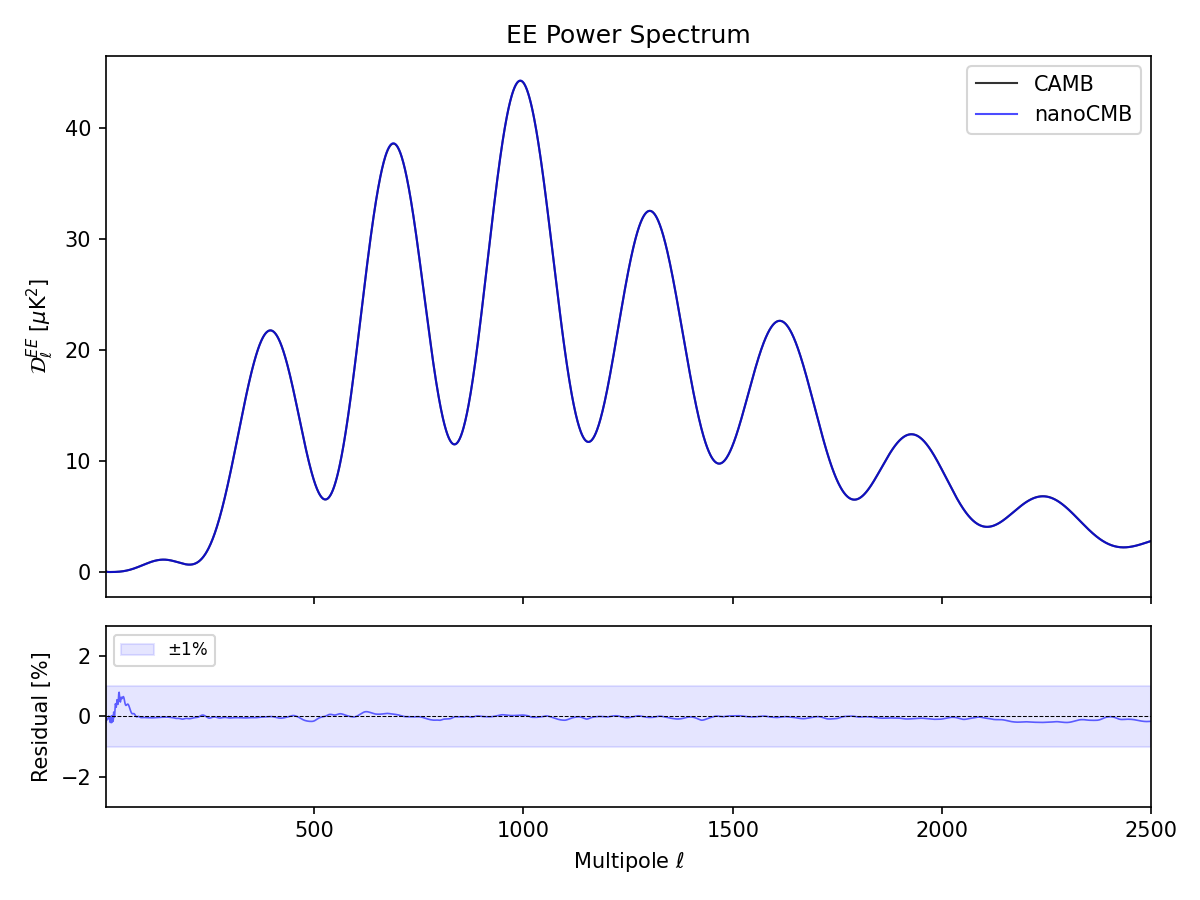
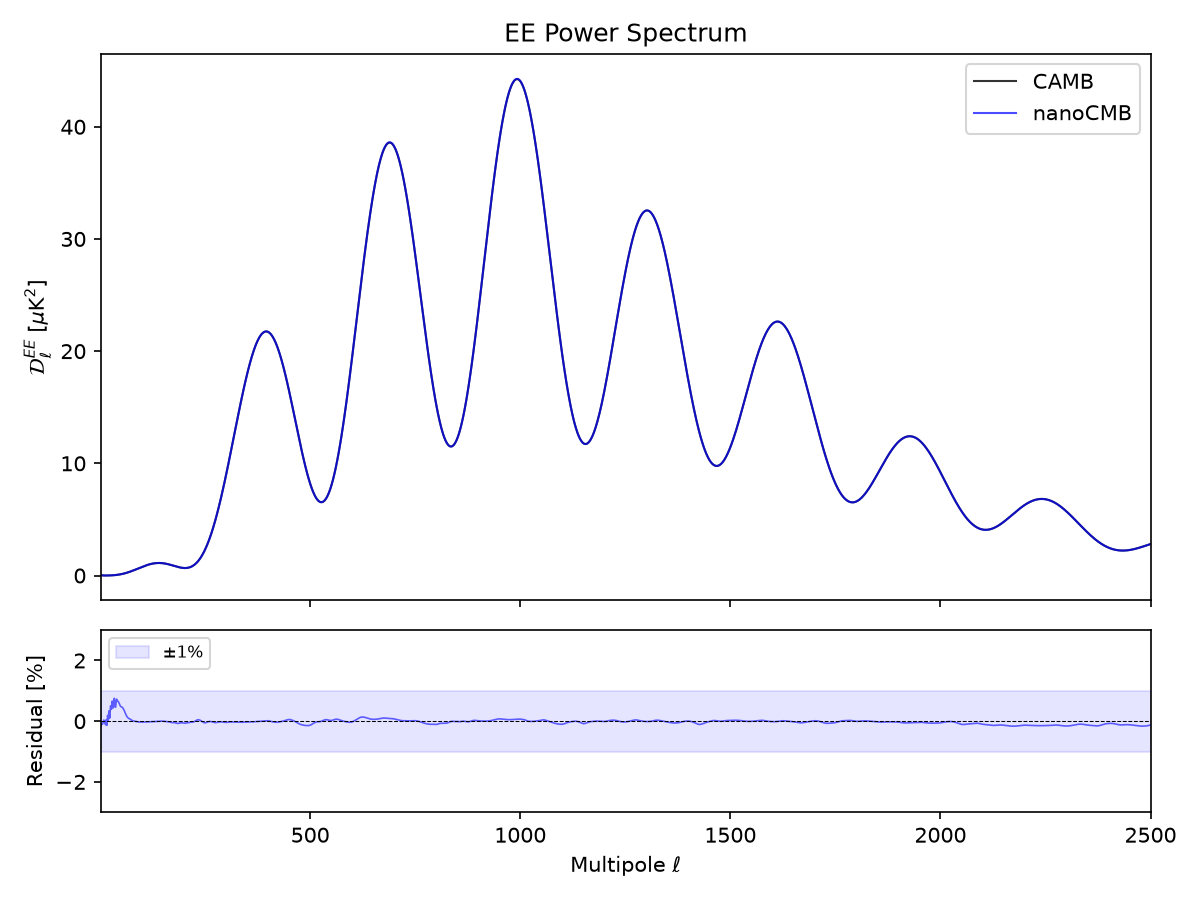
Match RECFAST to CAMB 2.0.4
- Hswitch double-Gaussian parameters: CAMB's refit instead of the rounded
  Recfast 1.5 values
- HeI singlet H-continuum opacity exponent: CAMB's RECFAST_fudge_He
  (0.8472367977) instead of 0.86
- HeI rate correction: CAMB's fitted factor on the helium rate, after the
  triplet term, for 1500 < z < 3000 while 1e-8 <= x_He <= 0.98

Checked against CAMB 2.0.4's recfast.f90. x_e now matches CAMB's
recombination-only history to 2-4e-5 for z = 800-4000 (was up to 3.3e-3).
Unlensed spectra vs CAMB 2.0.4: RMS residuals over l = 2-2500 drop from
0.105/0.110/0.055% to 0.089/0.095/0.047% (TT/EE/TE). README accuracy table
and figures regenerated.

diff --git a/nanocmb.py b/nanocmb.py
@@ -206,13 +206,20 @@ L_He2St_ion = 3.8454693845e6                      # HeI 2³S₁ ionisation conti
 sigma_He_2Ps = 1.436289e-22                       # HeI singlet photoionisation σ (m²)
 sigma_He_2Pt = 1.484872e-22                       # HeI triplet photoionisation σ (m²)
 
-# Fudge factor (CAMB default with Hswitch Gaussians: 1.125)
-RECFAST_fudge = 1.125
+# Fudge factors and corrections, as in CAMB 2.0.4's recfast.f90
+RECFAST_fudge = 1.125                # H fudge (default with Hswitch Gaussians)
+RECFAST_fudge_He = 0.8472367977      # exponent of the HeI singlet H-continuum opacity fit
 
-# Hswitch double-Gaussian K correction parameters
-AGauss1, AGauss2 = -0.14, 0.079
-zGauss1, zGauss2 = 7.28, 6.73
-wGauss1, wGauss2 = 0.18, 0.33
+# Hswitch double-Gaussian K correction parameters (CAMB's refit)
+AGauss1, AGauss2 = -0.1395272483, 0.0729891952
+zGauss1, zGauss2 = 7.2813061282, 6.7667038679
+wGauss1, wGauss2 = 0.1638966410, 0.2785834127
+
+# HeI rate correction: f_He multiplied by 1 + (a0 + a1 u + a2 u²)/(1 + d2 u² + d4 u⁴),
+# u = (z - z0)/width, for 1500 < z < 3000 while 1e-8 <= x_He <= 0.98
+He_rate_a0, He_rate_a1, He_rate_a2 = 0.07805480599148856, 0.899368710079757, -3.063896868095767
+He_rate_d2, He_rate_d4 = 3.752520187028219, 18.126758791787946
+He_rate_z0, He_rate_width = 1968.1134791219417, 774.0312440582285
 
 # Derived constants
 CR = 2 * np.pi * m_e * k_B / h_P**2              # Saha coefficient (m⁻² K⁻¹)
@@ -337,7 +344,7 @@ def compute_recombination(bg, params):
                 gamma_2Ps = (3 * A2P_s * f_He * (1 - x_He) * c_SI**2
                              / (np.sqrt(np.pi) * sigma_He_2Ps * 8 * np.pi
                                 * Doppler_s * max(1 - x_H, 1e-30) * (c_SI * L_He_2p)**2))
-                AHcon_s = A2P_s / (1 + 0.36 * gamma_2Ps**0.86)
+                AHcon_s = A2P_s / (1 + 0.36 * gamma_2Ps**RECFAST_fudge_He)
                 K_He = 1.0 / max((A2P_s * pHe_s + AHcon_s) * 3 * n_He_ground, 1e-300)
             else:
                 K_He = 1.0 / max(A2P_s * pHe_s * 3 * n_He_ground, 1e-300)
@@ -377,6 +384,13 @@ def compute_recombination(bg, params):
                 f2 += ((x * x_He * n_H * Rdown_trip
                         - (1 - x_He) * 3 * Rup_trip * np.exp(-CL_He_2St / T_mat))
                        * CfHe_t / (Hz * (1 + z)))
+
+            # HeI rate correction (z rescaled to the default CMB temperature, as in CAMB)
+            z_scale = T_cmb / 2.7255 * (1 + z) - 1
+            if 1e-8 <= x_He <= 0.98 and 1500.0 < z_scale < 3000.0:
+                u = (z_scale - He_rate_z0) / He_rate_width
+                f2 *= 1 + ((He_rate_a0 + He_rate_a1 * u + He_rate_a2 * u**2)
+                           / (1 + He_rate_d2 * u**2 + He_rate_d4 * u**4))
 
         # --- f3: Matter temperature ---
         x_safe = max(x, 1e-30)

diff --git a/README.md b/README.md
@@ -76,25 +76,27 @@ python -m unittest discover -s tests -v
 
 ## Accuracy
 
-Validated against CAMB (AccuracyBoost=3) with Planck 2018 best-fit parameters:
+Validated against CAMB 2.0.4 (AccuracyBoost=3) with Planck 2018 best-fit parameters:
 
 | l range | TT (mean ratio) | TT (std) | EE (mean ratio) | EE (std) |
 |---------|:---:|:---:|:---:|:---:|
-| 2-29 | 0.9994 | 0.02% | 1.0003 | 0.21% |
-| 30-499 | 0.9994 | 0.06% | 1.0000 | 0.14% |
-| 500-1999 | 0.9996 | 0.06% | 0.9998 | 0.05% |
-| 2000-2500 | 0.9985 | 0.04% | 0.9988 | 0.06% |
+| 2-29 | 0.9995 | 0.01% | 1.0010 | 0.23% |
+| 30-499 | 0.9996 | 0.07% | 1.0001 | 0.15% |
+| 500-1999 | 0.9997 | 0.05% | 1.0000 | 0.05% |
+| 2000-2500 | 0.9985 | 0.04% | 0.9988 | 0.04% |
 
-Over l=2–2500, default-cosmology RMS residuals are 0.096% TT, 0.098% EE, and 0.052% TE. TE residuals are normalized by sqrt(TT_CAMB * EE_CAMB), avoiding divisions at TE zero crossings.
+Over l=2–2500, default-cosmology RMS residuals are 0.089% TT, 0.095% EE, and 0.047% TE. TE residuals are normalized by sqrt(TT_CAMB * EE_CAMB), avoiding divisions at TE zero crossings.
 
-The updated solver was checked at the default cosmology, six Latin-hypercube cosmologies spanning +/-3 sigma of the Planck 2018 posterior, and a zero-reionization case. Across these eight cases, the largest absolute TT and EE residuals were 0.30% and 0.81%, respectively. The calculation uses massless neutrinos and matched unlensed CAMB spectra; these checks do not establish accuracy outside the tested parameter range.
+Before the RECFAST update below, the solver was checked at the default cosmology, six Latin-hypercube cosmologies spanning +/-3 sigma of the Planck 2018 posterior, and a zero-reionization case. Across these eight cases, the largest absolute TT and EE residuals were 0.30% and 0.81%, respectively. The calculation uses massless neutrinos and matched unlensed CAMB spectra; these checks do not establish accuracy outside the tested parameter range.
+
+The RECFAST parameters follow CAMB 2.0.4 (refit Hswitch Gaussians, HeI fudge exponent, and the HeI rate correction), so the ionization history matches CAMB's to 2-4e-5 through recombination (z = 800-4000).
 
 ## What's inside
 
 The entire calculation lives in `nanocmb.py`, structured as a top-to-bottom pipeline:
 
 1. **Background cosmology** -- Friedmann equation, conformal time, sound horizon
-2. **Recombination** -- Full RECFAST (H + He ODEs, matter temperature, Hswitch corrections), reionisation, visibility function
+2. **Recombination** -- Full RECFAST (H + He ODEs, matter temperature, Hswitch and HeI corrections as in CAMB 2.0.4), reionisation, visibility function
 3. **Grid construction** -- Optimal non-uniform grids in k and tau via error equidistribution
 4. **Perturbations** -- Boltzmann hierarchy in synchronous gauge (CDM frame) with tight-coupling approximation
 5. **Source functions** -- Multi-channel IBP decomposition with ISW, Doppler, and quadrupole terms
